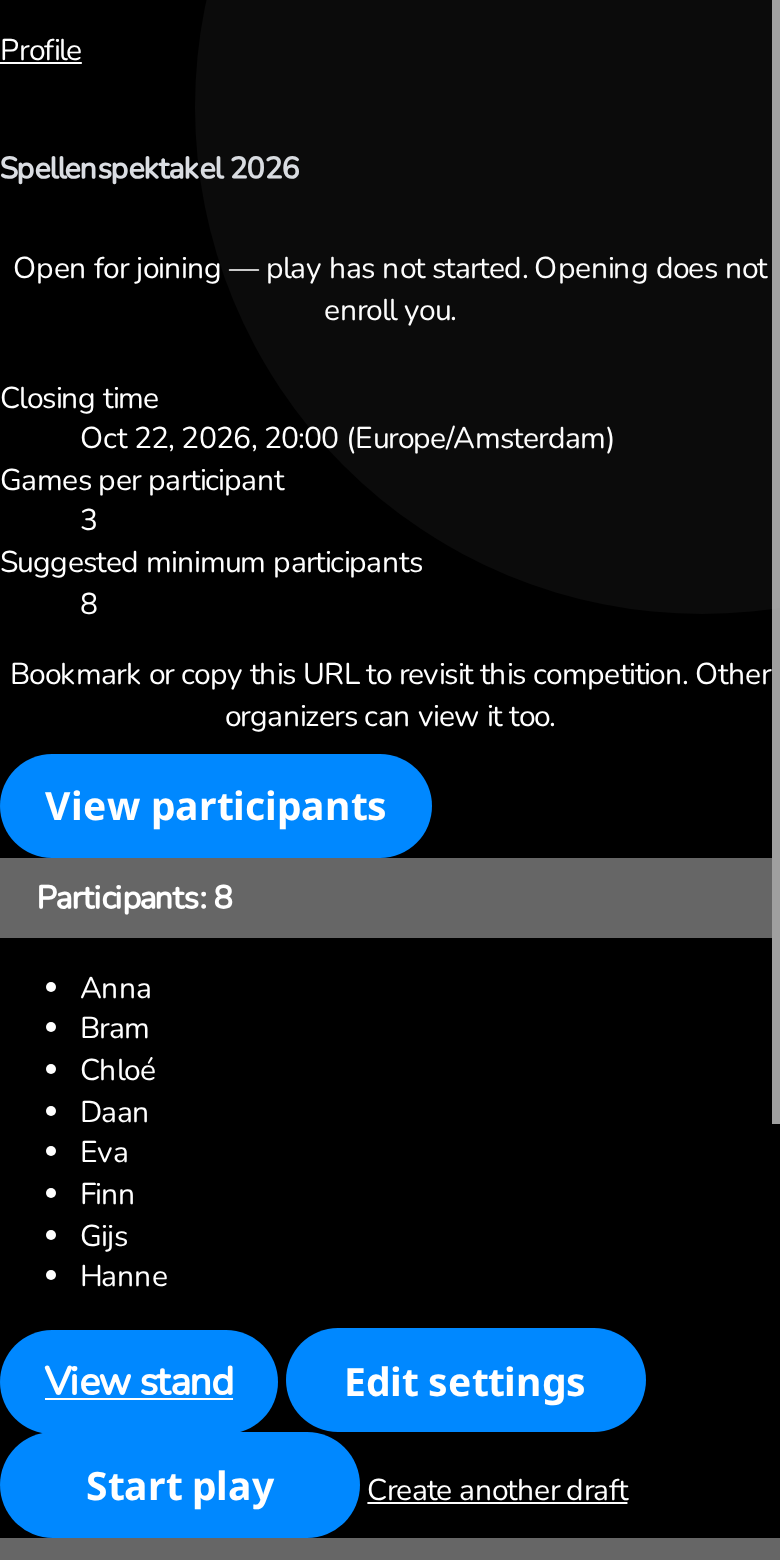
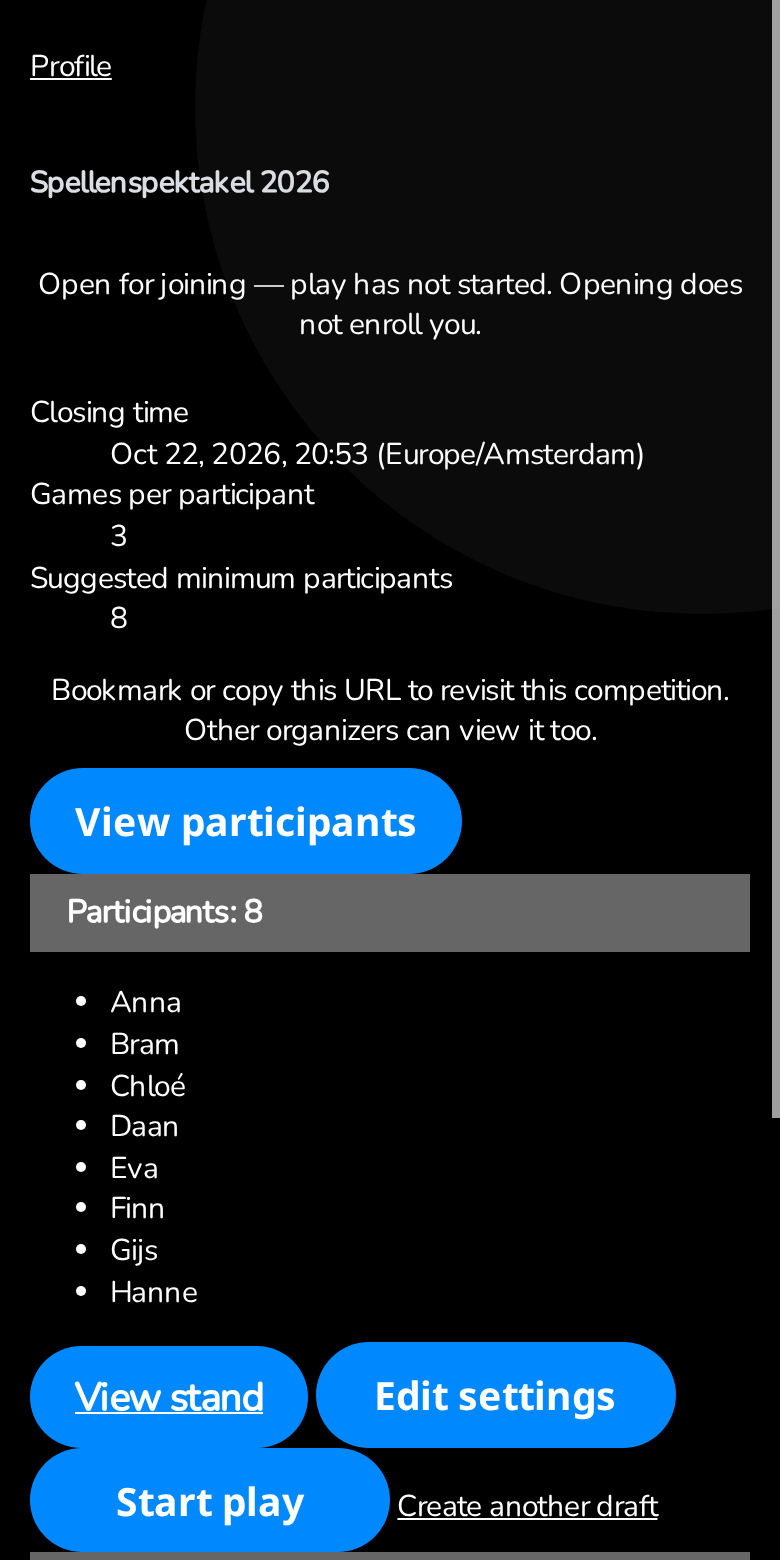
docs(homework): add physical game slide, Japanese lean terms and padded screenshots

diff --git a/docs/presentation-2026-10-20/index.html b/docs/presentation-2026-10-20/index.html
@@ -9,6 +9,7 @@
   <link rel="stylesheet" href="kit/sketchbook.css">
   <link rel="stylesheet" href="kit/tutorial.css">
   <link rel="stylesheet" href="qubigo.css">
+  <link rel="stylesheet" href="https://fonts.googleapis.com/css2?family=Yusei+Magic&display=swap">
   <script src="kit/sketchbook.js" defer></script>
 </head>
 <body>
@@ -24,15 +25,30 @@
       <aside class="notes">7 minutes. Message: looking at the code the factory produced (genchi genbutsu) found problems; a kaizen ledger and pulling the cord with five whys is how I learn what to change, not just what to patch. I want feedback at the end.</aside>
     </section>
 
-    <!-- 2 Qubigo -->
-    <section class="mid q-dark" data-background-color="#000" data-menu-title="Qubigo">
+    <!-- 2 Physical game -->
+    <section class="mid" data-menu-title="A physical board game">
+      <p class="kicker">First, what is Qubigo?</p>
+      <h2 class="sk-section">A physical board game</h2>
+      <div class="photo-split">
+        <figure class="photo"><img src="img/physical-game.png" alt="Two people playing Qubigo on a sofa: a clear 3×3×3 cube, coloured stones and the black box"><figcaption>Photo: qubigo.com</figcaption></figure>
+        <ul class="photo-facts">
+          <li>A <strong>clear 3×3×3 cube</strong> you hold in your hands.</li>
+          <li><strong>27 stones</strong>, three properties each.</li>
+          <li>Three in a row, in any direction. 2–3 players, 20–30 minutes.</li>
+          <li><strong>Easy to learn, hard to master.</strong></li>
+        </ul>
+      </div>
+      <aside class="notes">Make sure people understand it is a physical game, in a box, that you can buy (qubigo.com). Photo from the Qubigo website. (Idea: add a photo of Anton and me here.)</aside>
+    </section>
+
+    <!-- 3 Qubigo software -->
+    <section class="mid q-dark" data-background-color="#000" data-menu-title="The digital edition">
       <img class="q-logo" src="img/qubigo-logo-text-small.png" alt="Qubigo">
-      <h2 class="sk-section">Chess meets 3D tic-tac-toe</h2>
+      <h2 class="sk-section">The digital edition: an on-ramp</h2>
       <div class="q-hero">
         <ul class="q-facts">
-          <li>Three in a row on a <strong>3×3×3 cube</strong>: 27 stones, three properties each, 20–30 minutes.</li>
-          <li><strong>Easy to learn, hard to master.</strong> A physical board game at qubigo.com.</li>
-          <li>This software: web and mobile, an <strong>on-ramp to the physical game</strong>. Players fall in love online, then buy the box.</li>
+          <li>Web and mobile: <strong>play online</strong>, pass-and-play, <strong>explore the board in 3D</strong>, learn in minutes.</li>
+          <li>Its job: players <strong>fall in love online, then buy the box</strong>.</li>
           <li>My capstone target. A real product, real releases, a real deadline.</li>
         </ul>
         <img class="board" src="img/welcome-board.png" alt="The Qubigo welcome board">
@@ -46,6 +62,7 @@
       <div class="sk-row three-up">
         <div class="sk-panel sk-teal">
           <div class="sk-step"><span class="sk-num">1</span><span class="sk-label">Go and look</span></div>
+          <p class="jp"><span class="jp-k">現地現物</span><span class="jp-r">genchi genbutsu</span></p>
           <img src="kit/icons/magnifier.svg" alt="A magnifying glass">
           <p>Read the code from <strong>run 003</strong> (sessions survive deployments), not just the green checks.</p>
         </div>
@@ -56,6 +73,7 @@
         </div>
         <div class="sk-panel sk-mustard">
           <div class="sk-step"><span class="sk-num">3</span><span class="sk-label">Kaizen ledger</span></div>
+          <p class="jp"><span class="jp-k">改善</span><span class="jp-r">kaizen</span></p>
           <img src="kit/icons/sticky-note.svg" alt="A sticky note">
           <p>One note per problem, resolved or open. Idea from Matt Wynne's Memba.</p>
         </div>
@@ -83,6 +101,7 @@
     <!-- 5 Cord + five whys -->
     <section class="mid" data-menu-title="Pull the cord">
       <h2 class="sk-section">I pulled the cord. Five whys.</h2>
+      <p class="jp jp-inline"><span class="jp-k">アンドン</span><span class="jp-r">andon: anyone can stop the line</span></p>
       <div class="sk-bubble">The process checked whether the machinery was <strong>correct</strong> more than whether it was <strong>needed</strong>.</div>
       <table class="whys">
         <tr><td>Requirements</td><td>Speculative failure cases became mandatory guarantees.</td></tr>
@@ -97,6 +116,7 @@
     <!-- 6 004 vs 004a -->
     <section class="mid" data-menu-title="004 versus 004a">
       <h2 class="sk-section">Same requirements. Second attempt: 004a.</h2>
+      <p class="jp jp-inline"><span class="jp-k">自働化</span><span class="jp-r">jidoka: the line stops for a human decision</span></p>
       <div class="compare">
         <div class="sk-panel sk-coral sk-dashed">
           <div class="sk-step"><span class="sk-label">004</span></div>

diff --git a/docs/presentation-2026-10-20/qubigo.css b/docs/presentation-2026-10-20/qubigo.css
@@ -67,3 +67,19 @@
 .reveal .sk-section { margin-bottom: .2em; }
 .mini-icon { width: 90px; height: auto; margin-right: .6em; vertical-align: middle; border: 0; background: none; box-shadow: none; }
 .row-head { display: flex; align-items: center; gap: .3em; }
+
+.photo-split { display: grid; grid-template-columns: 1.55fr .8fr; gap: 2em; align-items: center; width: 100%; }
+.photo { margin: 0; }
+.photo img { display: block; width: 100%; height: auto; border: 5px solid var(--sk-ink); border-radius: 14px; box-shadow: none; filter: url(#sk-wobble-soft); }
+.photo figcaption { margin-top: .3em; font-size: .75em; opacity: .7; text-align: right; }
+.photo-facts { list-style: none; padding: 0; margin: 0; }
+.photo-facts li { margin: .7em 0; font-size: 1.35em; line-height: 1.25; }
+
+/* Japanese lean terms: a stamp-like kanji with a romaji caption */
+.jp { display: flex; align-items: baseline; gap: .6em; margin: .1em 0 .3em; font-size: 1em; }
+.jp-k { font-family: 'Yusei Magic', 'Noto Sans JP', 'Hiragino Sans', sans-serif; font-size: 1.9em; line-height: 1; color: var(--sk-rust-text); border: 3px solid var(--sk-rust); border-radius: 8px; padding: .05em .3em; transform: rotate(-3deg); background: color-mix(in oklab, var(--sk-rust) 8%, transparent); }
+.jp-r { font-family: var(--sk-font-label); font-size: 1.05em; color: var(--sk-body-text); }
+.jp-inline { justify-content: center; margin-top: .2em; }
+.three-up .sk-panel .jp { justify-content: center; margin: .2em 0; }
+.three-up .sk-panel .jp-k { font-size: 1.5em; }
+.three-up .sk-panel .jp-r { font-size: .9em; }
